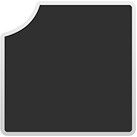
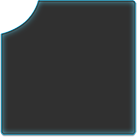
modify the CBLEButton class

Changed region(s): [[0.0, 0.0, 1.0, 0.9927]]

diff --git a/iFind/CScanViewController.m b/iFind/CScanViewController.m
@@ -160,7 +160,7 @@
     //Button1
     UIImage * image_1 = [_defaultImages objectAtIndex:0];
     UIImage * highlight_1 = [_defaultHightlighImages objectAtIndex:0];
-    CBLEButton * bleButton_1 = [[CBLEButton alloc] initWithFrame:rect_1 withImage:image_1 withHighLight:highlight_1 withTitle:nil];
+    CBLEButton * bleButton_1 = [[CBLEButton alloc] initWithFrame:rect_1 withImage:image_1 withHighLight:highlight_1 withTitle:nil withTag:BUTTON_TAG_1];
     bleButton_1.tag = BUTTON_TAG_1;
     bleButton_1.tapHandler = tapHandler;
     [self.view addSubview:bleButton_1];
@@ -168,21 +168,21 @@
     //Button2
     UIImage * image_2 = [_defaultImages objectAtIndex:1];
     UIImage * highlight_2 = [_defaultHightlighImages objectAtIndex:1];
-    CBLEButton * bleButton_2 = [[CBLEButton alloc] initWithFrame:rect_2 withImage:image_2 withHighLight:highlight_2 withTitle:nil];
+    CBLEButton * bleButton_2 = [[CBLEButton alloc] initWithFrame:rect_2 withImage:image_2 withHighLight:highlight_2 withTitle:nil withTag:BUTTON_TAG_2];
     bleButton_2.tag = BUTTON_TAG_2;
     bleButton_2.tapHandler = tapHandler;
     [self.view addSubview:bleButton_2];
     //Button3
     UIImage * image_3 = [_defaultImages objectAtIndex:2];
     UIImage * highlight_3 = [_defaultHightlighImages objectAtIndex:2];
-    CBLEButton * bleButton_3 = [[CBLEButton alloc] initWithFrame:rect_3 withImage:image_3 withHighLight:highlight_3 withTitle:nil];
+    CBLEButton * bleButton_3 = [[CBLEButton alloc] initWithFrame:rect_3 withImage:image_3 withHighLight:highlight_3 withTitle:nil withTag:BUTTON_TAG_3];
     bleButton_3.tag = BUTTON_TAG_3;
     bleButton_2.tapHandler = tapHandler;
     [self.view addSubview:bleButton_3];
     //Button4
     UIImage * image_4 = [_defaultImages objectAtIndex:3];
     UIImage * highlight_4 = [_defaultHightlighImages objectAtIndex:3];
-    CBLEButton * bleButton_4 = [[CBLEButton alloc] initWithFrame:rect_4 withImage:image_4 withHighLight:highlight_4 withTitle:nil];
+    CBLEButton * bleButton_4 = [[CBLEButton alloc] initWithFrame:rect_4 withImage:image_4 withHighLight:highlight_4 withTitle:nil withTag:BUTTON_TAG_4];
     bleButton_4.tag = BUTTON_TAG_4;
     bleButton_2.tapHandler = tapHandler;
     [self.view addSubview:bleButton_4];

diff --git a/iFind/Classes/CBLEButton.m b/iFind/Classes/CBLEButton.m
@@ -24,13 +24,41 @@
 - (id)initWithFrame:(CGRect)frame
           withImage:(UIImage *)image
       withHighLight:(UIImage *)highlightImage
-          withTitle:(NSString *)title
+          withTitle:(NSString *)title withTag:(int)tag
 {
     self = [super initWithFrame:frame];
     if(self)
     {
         self.userInteractionEnabled = YES;
-        _imageView = [[UIImageView alloc] initWithFrame:CGRectMake(0, 0, frame.size.width, frame.size.height)];
+        self.tag = tag;
+        _bgView = [[UIImageView alloc] initWithFrame:CGRectMake(0, 0, frame.size.width, frame.size.height)];
+        NSString * bgImageName = nil,* bgHlImageName = nil;
+        switch (tag) {
+            case 1:
+                bgImageName = @"Main_Frame_Wallet_N";
+                bgHlImageName = @"Main_Frame_Wallet_H";
+                break;
+             case 2:
+                bgImageName = @"Main_Frame_Key_N";
+                bgHlImageName = @"Main_Frame_Key_H";
+                break;
+             case 3:
+                bgImageName = @"Main_Frame_Bag_N";
+                bgHlImageName = @"Main_Frame_Bag_H";
+                break;
+             case 4:
+                bgImageName = @"Main_Frame_Kid_N";
+                bgHlImageName = @"Main_Frame_Kid_H";
+                break;
+            default:
+                break;
+        }
+
+        [_bgView setImage:[UIImage imageNamed:bgImageName]];
+        [_bgView setHighlightedImage:[UIImage imageNamed:bgHlImageName]];
+        [self addSubview:_bgView];
+        
+        _imageView = [[UIImageView alloc] initWithFrame:CGRectMake((frame.size.width - 70)*.5f, (frame.size.height - 70)*.5f, 70, 70)];
         [_imageView setImage:image];
         if(highlightImage)
         {
@@ -55,6 +83,7 @@
     {
         [_imageView setHighlighted:isHighlight];
     }
+    [_bgView setHighlighted:isHighlight];
 }
 
 - (void)tapSelf:(UITapGestureRecognizer *)gesture

diff --git a/iFind/Classes/CBLEButton.h b/iFind/Classes/CBLEButton.h
@@ -12,10 +12,11 @@ typedef void (^TapHandler)(id sender);
 {
     UIImageView * _imageView;
     UILabel * _textLabel;
+    UIImageView * _bgView;
 }
 @property (nonatomic,copy) TapHandler  tapHandler;
 @property (nonatomic,retain) NSString * uuid;
-- (id)initWithFrame:(CGRect)frame withImage:(UIImage *)image withHighLight:(UIImage *)highlightImage withTitle:(NSString *)title;
+- (id)initWithFrame:(CGRect)frame withImage:(UIImage *)image withHighLight:(UIImage *)highlightImage withTitle:(NSString *)title withTag:(int)tag;
 - (void)setHighlight:(BOOL)isHighlight;
 - (void)setUuid:(NSString *)uuid;
 @end
